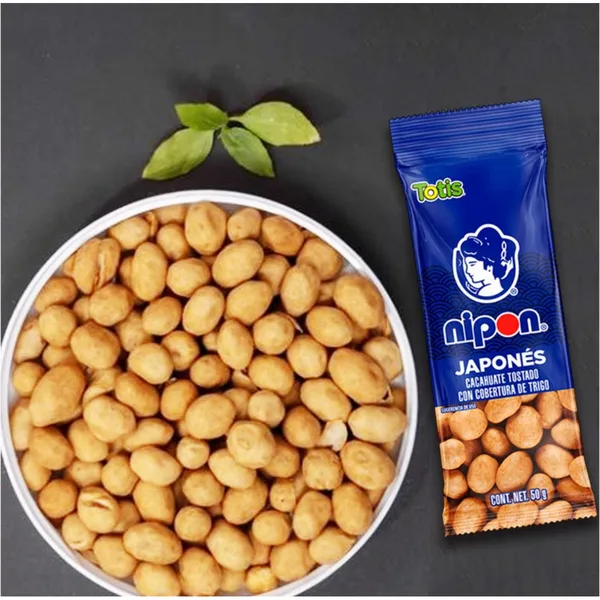
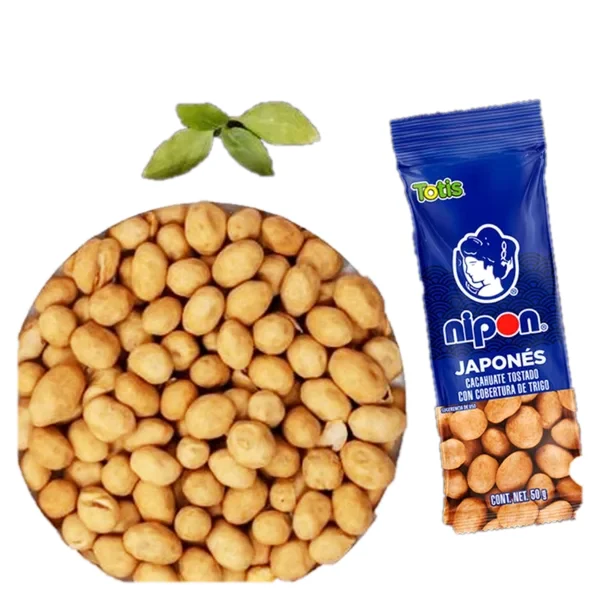
Tarjetas con menos texto y fotos con fondo parejo; 6 fotos sin fondo
Claude-Session: https://claude.ai/code/session_01PTHL86jYLQyNci14ggAKkn

diff --git a/index.html b/index.html
@@ -247,6 +247,13 @@ main{padding-top:14px}
 /* Protección de fotos: sin descargar */
 img{-webkit-user-drag:none;user-drag:none;-webkit-touch-callout:none;user-select:none;-webkit-user-select:none}
 .p .img,.box .img{position:relative}
+/* Tarjetas limpias y fotos con fondo parejo */
+.p .img .tag{z-index:2}
+.p h3{display:-webkit-box;-webkit-line-clamp:2;-webkit-box-orient:vertical;overflow:hidden}
+.p .unit{display:-webkit-box;-webkit-line-clamp:1;-webkit-box-orient:vertical;overflow:hidden}
+.bdg{display:block;margin-top:2px;font-size:12.5px;font-weight:700;color:#7ed957;white-space:nowrap;overflow:hidden;text-overflow:ellipsis}.bdg.am{color:#f4b400}
+.p .img,.box .img,.li .th,.ab-p .th{background:#f4f5f1!important}
+.p .img img.foto,.box .img img.foto,.li .th img,.ab-p .th img{background:transparent!important;mix-blend-mode:multiply}
 /* Tortillería Los 2 Carnales */
 .s4{background:linear-gradient(90deg,#0b1525f5 0,#0b1525d9 42%,#0b152530 75%,#0b152500),url(img/promo-tortillas.webp) 65% 60%/cover;min-height:210px}
 .s5{background:linear-gradient(90deg,#5c0f14f5 0,#7a1219e0 42%,#7a121940 75%,#7a121900),url(img/promo-arreglo.webp) 70% 55%/cover;min-height:210px;border:2px solid #d4af37}
@@ -615,6 +622,7 @@ const norm=s=>s.normalize('NFD').replace(/[̀-ͯ]/g,'').toLowerCase();
 const item=k=>{const [id,vi]=k.split(':'),p=P.find(x=>x.id===id);if(!p)return null;const o=p.v&&vi!=null?p.v[+vi]:null;if(p.v&&!o)return null;return {p,vi:o?+vi:null,name:p.n+(o?' '+o.n:''),unit:p.u,pr:o?o.pr:p.pr}};
 const myOf=(p,vi)=>vi!=null&&p.v?p.v[vi].my:p.my;
 const upI=(it,c)=>{const m=myOf(it.p,it.vi);return m&&c>=m[0]?m[1]:it.pr};
+const badge=p=>{if(p.min)return '<span class="bdg am">🛒 Mínimo '+p.min+' piezas</span>';if(ANTIC(p))return '<span class="bdg am">📅 Pídelo un día antes</span>';const m=p.my||(p.v&&(p.v.find(o=>o.my)||{}).my);if(m)return '<span class="bdg">💰 Mayoreo desde '+m[0]+'</span>';if(p.cat==='Tortillas')return '<span class="bdg">⚡ Mismo día</span>';return ''};
 const myTxt=(p,vi)=>{const m=myOf(p,vi);if(m)return `<span class="free">Mayoreo: ${fmt(m[1])} desde ${m[0]} ${p.myu||'paquetes'}</span>`;if(vi==null&&p.v&&p.v.some(o=>o.my))return `<span class="free">Precio de mayoreo desde ${p.v.find(o=>o.my).my[0]} ${p.myu||'paquetes'}</span>`;return ''};
 const priceHTML=p=>{const m=minPr(p);if(m==null)return `<div class="quote">Pide tu precio</div>`;
   const [e,c]=m.toFixed(2).split('.');return `<div class="price">${p.v&&p.v.length>1&&p.v.some(x=>x.pr!==m)?'<small>desde </small>':''}${(+e).toLocaleString('es-MX')}${c!=='00'?`<sup>${c}</sup>`:''} <small>pesos</small></div>`};
@@ -639,7 +647,7 @@ function renderGrid(){
   $('#n').textContent=list.length+(list.length===1?' producto':' productos');
   $('#grid').innerHTML=list.length?list.map(p=>`<article class="p">
     <button class="img" data-open="${p.id}" aria-label="Ver ${p.n}">${p.tag?`<span class="tag">${p.tag}</span>`:''}${SELLO_2C.includes(p.cat)&&!/etiqueta|integral/.test(p.img||'')?'<img class="sello" src="img/logo-2c.webp" alt="Los 2 Carnales">':''}${pic(p)}</button>
-    <div class="info">${p.v?`<button class="plus ver" data-open="${p.id}" aria-label="Ver opciones de ${p.n}">Ver</button>`:`<button class="plus" data-add="${p.id}" aria-label="Agregar ${p.n} al carrito">+</button>`}${priceHTML(p)}<h3>${p.n}</h3><span class="unit">${p.v?p.v.length+' opciones · ':''}${p.u}</span>${myTxt(p)}${p.min?'<span class="free" style="color:#f4b400">🛒 Compra mínima: '+p.min+' piezas</span>':''}${ANTIC(p)?'<span class="free" style="color:#f4b400">📅 Pídelo un día antes</span>':p.cat==="Tortillas"?'<span class="free">⚡ Mismo día si hay disponibilidad</span>':''}
+    <div class="info">${p.v?`<button class="plus ver" data-open="${p.id}" aria-label="Ver opciones de ${p.n}">Ver</button>`:`<button class="plus" data-add="${p.id}" aria-label="Agregar ${p.n} al carrito">+</button>`}${priceHTML(p)}<h3>${p.n}</h3><span class="unit">${p.v?p.v.length+' opciones · ':''}${p.u}</span>${badge(p)}
     ${p.v?`<button class="add" data-open="${p.id}">Ver opciones</button>`:`<button class="add" data-add="${p.id}">${p.pr==null?'Agregar para cotizar':'Agregar al carrito'}</button>`}</div></article>`).join('')
     :`<div class="empty" style="grid-column:1/-1">No lo ves en el catálogo? Pregunta por él y te lo conseguimos.<br><a class="wa" href="https://wa.me/${WHATS}?text=${encodeURIComponent('Hola, busco: '+q)}" target="_blank" rel="noopener">Preguntar por “${q}” en WhatsApp</a></div>`;
 }
